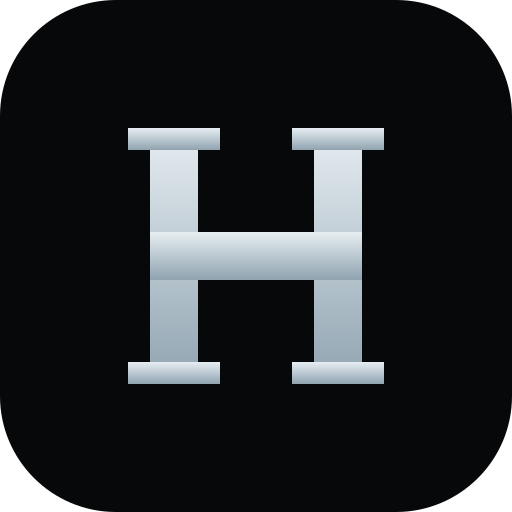
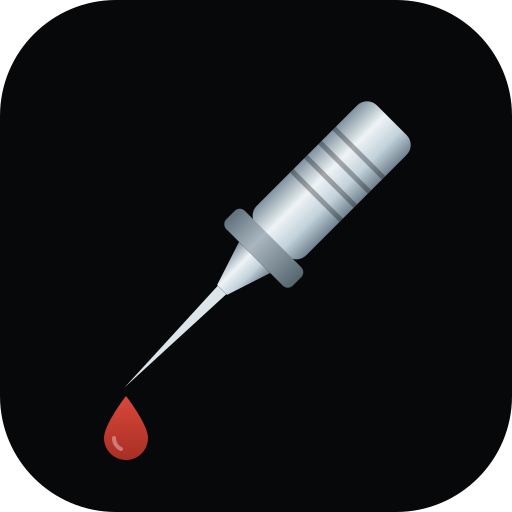
Renombra la app a Tattoo Estudio y estrena ícono de aguja
- Nombre visible: título de la pestaña, manifest, nombre en iOS y rótulo del
  menú lateral (se quita la línea "by Héctor")
- Ícono nuevo: aguja de tatuaje con gota de tinta, en versión redonda, adaptable
  de Android, de iOS a pantalla completa y favicon más grueso para que se lea a
  16 px. El favicon anterior era el logo de Vite de la plantilla
- El service worker sube la versión del caché: precachea íconos y manifest con
  "caché primero" y sin esto las apps ya instaladas no verían el cambio

Changed region(s): [[0.25, 0.1875, 0.8125, 0.75], [0.1875, 0.7812, 0.3125, 0.9062]]

diff --git a/frontend/src/components/AppShell.css b/frontend/src/components/AppShell.css
@@ -1,5 +1,5 @@
 /* ============================================================
-   AppShell "Ink & Honor" — Hector Tattoos
+   AppShell "Ink & Honor" — Tattoo Estudio
    Chrome compartido de la app autenticada: sidebar de navegación
    (drawer deslizable) + barra superior con botón de menú, título
    de la vista y acciones. Se esconde al bajar por la página.
@@ -103,14 +103,6 @@
   letter-spacing: 0.02em;
   color: var(--steel-hi);
   text-shadow: 0 2px 12px rgba(7, 8, 10, 0.9);
-}
-.dash__brand-sub {
-  margin-top: 3px;
-  font-size: 10px;
-  font-weight: 600;
-  letter-spacing: 0.28em;
-  text-transform: uppercase;
-  color: var(--accent);
 }
 
 /* ---- Navegación ---- */
@@ -388,7 +380,6 @@
   border-right-color: #d3cec3;
 }
 [data-theme="light"] .dash__wordmark { color: #1b1d21; text-shadow: none; }
-[data-theme="light"] .dash__brand-sub { color: var(--accent); }
 [data-theme="light"] .navitem { color: #4a4e55; text-shadow: none; }
 [data-theme="light"] .navitem:hover { color: #1b1d21; background: rgba(27, 29, 33, 0.05); }
 [data-theme="light"] .navitem--active { color: #1b1d21; background: rgba(192, 57, 47, 0.09); }

diff --git a/frontend/index.html b/frontend/index.html
@@ -13,13 +13,13 @@
     <meta name="color-scheme" content="dark" />
     <meta name="apple-mobile-web-app-capable" content="yes" />
     <meta name="apple-mobile-web-app-status-bar-style" content="black-translucent" />
-    <meta name="apple-mobile-web-app-title" content="Hector Tattoos" />
+    <meta name="apple-mobile-web-app-title" content="Tattoo Estudio" />
     <meta
       name="description"
       content="Gestión integral del estudio de tatuajes: bocetos, citas y cotizaciones en un solo lugar."
     />
 
-    <title>Hector Tattoos — Acceso al estudio</title>
+    <title>Tattoo Estudio</title>
 
     <!-- Fija el tema antes del primer paint para que no haya parpadeo
          oscuro→claro al cargar. El estado de React se sincroniza después

diff --git a/frontend/public/sw.js b/frontend/public/sw.js
@@ -1,6 +1,10 @@
 // Service worker mínimo: cachea el app shell para que la PWA abra sin conexión.
 // No intercepta llamadas a la API (otra-origin), que siempre van a la red.
-const CACHE = 'ht-shell-v1';
+// Sube el número cada vez que cambie algo de SHELL (íconos, manifest): esos
+// archivos se sirven "caché primero", así que sin una versión nueva quien ya
+// instaló la app seguiría viendo la anterior. El `activate` borra las versiones
+// viejas.
+const CACHE = 'tattoo-estudio-shell-v2';
 const SHELL = ['/', '/index.html', '/manifest.webmanifest', '/icon.svg', '/favicon.svg'];
 
 self.addEventListener('install', (event) => {

diff --git a/frontend/src/components/AppShell.tsx b/frontend/src/components/AppShell.tsx
@@ -125,8 +125,7 @@ export default function AppShell() {
         <div className="dash__brand">
           <span className="dash__seal" aria-hidden="true" />
           <span className="dash__brand-text">
-            <span className="dash__wordmark">Hector Tattoos</span>
-            <span className="dash__brand-sub">by Héctor</span>
+            <span className="dash__wordmark">Tattoo Estudio</span>
           </span>
         </div>
 

diff --git a/frontend/src/pages/Dashboard.css b/frontend/src/pages/Dashboard.css
@@ -1,5 +1,5 @@
 /* ============================================================
-   Panel "Resumen" (/dashboard) — Hector Tattoos
+   Panel "Resumen" (/dashboard) — Tattoo Estudio
    Solo el contenido de la vista: saludo, carrusel de bocetos,
    tarjetas de métricas y la vista dividida (citas de hoy +
    calendario del mes, con el visor 3D a ancho completo debajo).

diff --git a/frontend/src/pages/Gallery.css b/frontend/src/pages/Gallery.css
@@ -1,5 +1,5 @@
 /* ============================================================
-   Galería de bocetos (T0010) — Hector Tattoos
+   Galería de bocetos (T0010) — Tattoo Estudio
    Panel de importación a la izquierda, grilla de bocetos a la
    derecha. Solo el contenido de la vista: el chrome (sidebar +
    barra superior) lo aporta <AppShell>. El wrapper .gal se

diff --git a/frontend/src/pages/Preview3D.css b/frontend/src/pages/Preview3D.css
@@ -1,5 +1,5 @@
 /* ============================================================
-   Previsualización 3D — Hector Tattoos
+   Previsualización 3D — Tattoo Estudio
    Lienzo WebGL a la izquierda y panel de control a la derecha
    (apilados en móvil). El lienzo conserva su fondo oscuro en
    ambos temas, igual que el visor de maqueta del panel.

diff --git a/frontend/src/pages/Login.css b/frontend/src/pages/Login.css
@@ -1,5 +1,5 @@
 /* ============================================================
-   Login — Hector Tattoos
+   Login — Tattoo Estudio
    Firma: marcas de registro de stencil en las esquinas del card,
    monograma gótico H y humo japonés (irezumi) de fondo.
    Mobile-first; dos columnas en desktop. Todo bajo .auth.

diff --git a/CLAUDE.md b/CLAUDE.md
@@ -276,7 +276,11 @@ de la calibración está en el comentario de `CM2_POR_HORA`
 - PWA: `public/manifest.webmanifest`, `public/sw.js` (solo cachea el shell; los
   datos viven en la API, así que el modo offline es mínimo a propósito) e íconos
   PNG (`icon-192`, `icon-512`, `icon-maskable-512`, `apple-touch-icon`, este
-  último a pantalla completa porque iOS aplica su propia máscara).
+  último a pantalla completa porque iOS aplica su propia máscara). El ícono es
+  una aguja de tatuaje con una gota de tinta; los PNG salen de `icon.svg` e
+  `icon-maskable.svg` con `sharp` (`density: 384`), y `favicon.svg` es una
+  versión más gruesa para que se lea a 16 px. Al cambiar algo de lo que
+  precachea `sw.js` hay que subir `CACHE`, o las apps ya instaladas no se enteran
   `public/_headers` hace en Cloudflare Pages lo que `nginx.conf` hace en Docker
 - `lib/theme.tsx` — tema claro/oscuro global. `<ThemeProvider>` (en `App.tsx`,
   dentro de `BrowserRouter`) + hook `useTheme()` → `{ light, toggle }`. Persiste
